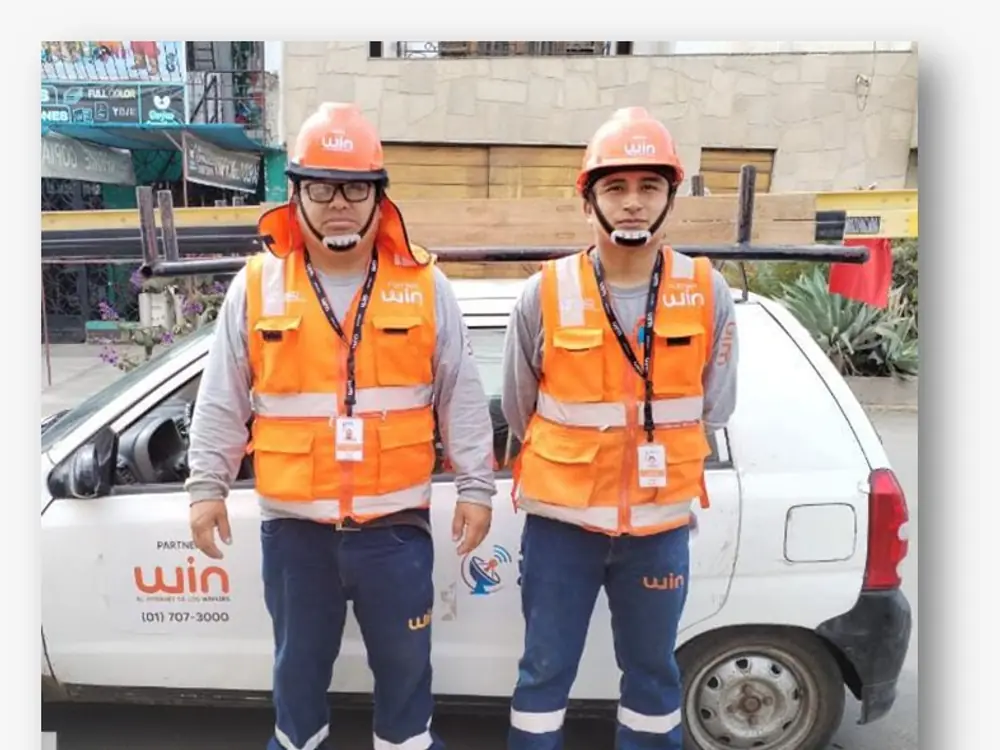
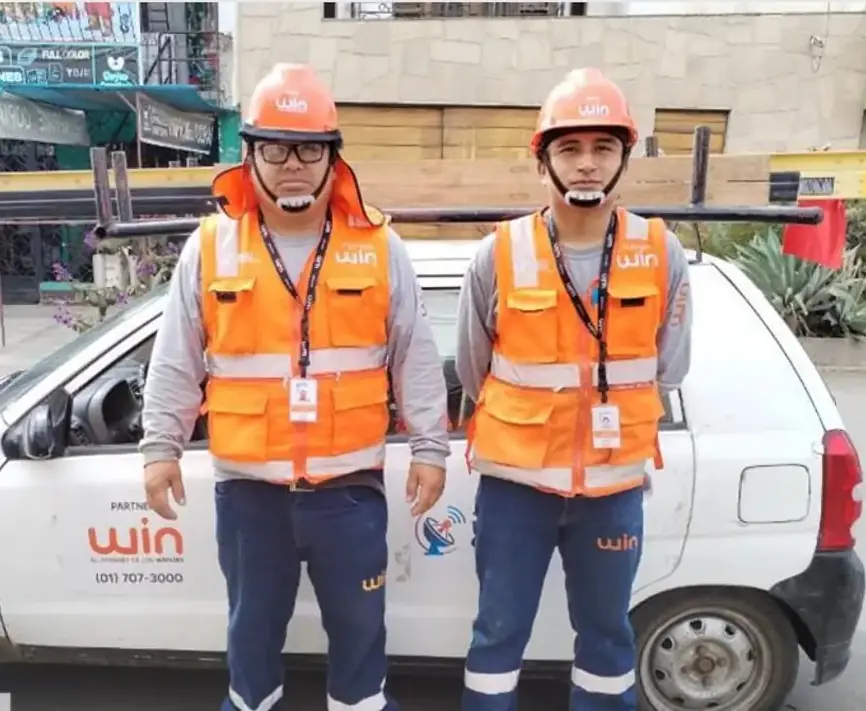
Trujillo y Lima estrenan fotos editadas, sin el marco blanco
Las siete fotos de Trujillo (04 a 10) y lima-01 se reemplazan por las
versiones editadas: recortadas y sin el marco blanco con sombra que traían
incrustado. lima-04 sale de la galería. Los originales editados quedan en
_originales/sedes/*/editadas.

diff --git a/src/galeria.js b/src/galeria.js
@@ -8,18 +8,13 @@ export const GALERIA = {
     },
     {
       "src": "/img/sedes/lima-01.webp",
-      "ancho": 1400,
+      "ancho": 1310,
       "alto": 936
     },
     {
       "src": "/img/sedes/lima-03.webp",
       "ancho": 1281,
       "alto": 1080
-    },
-    {
-      "src": "/img/sedes/lima-04.webp",
-      "ancho": 1400,
-      "alto": 936
     },
     {
       "src": "/img/sedes/lima-05.webp",
@@ -50,38 +45,38 @@ export const GALERIA = {
     },
     {
       "src": "/img/sedes/trujillo-04.webp",
-      "ancho": 1000,
-      "alto": 750
+      "ancho": 897,
+      "alto": 686
     },
     {
       "src": "/img/sedes/trujillo-05.webp",
-      "ancho": 1000,
-      "alto": 750
+      "ancho": 849,
+      "alto": 697
     },
     {
       "src": "/img/sedes/trujillo-06.webp",
-      "ancho": 1000,
-      "alto": 750
+      "ancho": 853,
+      "alto": 703
     },
     {
       "src": "/img/sedes/trujillo-07.webp",
-      "ancho": 1000,
-      "alto": 750
+      "ancho": 834,
+      "alto": 677
     },
     {
       "src": "/img/sedes/trujillo-08.webp",
-      "ancho": 1000,
-      "alto": 750
+      "ancho": 862,
+      "alto": 703
     },
     {
       "src": "/img/sedes/trujillo-09.webp",
-      "ancho": 1000,
-      "alto": 750
+      "ancho": 871,
+      "alto": 701
     },
     {
       "src": "/img/sedes/trujillo-10.webp",
-      "ancho": 1000,
-      "alto": 750
+      "ancho": 866,
+      "alto": 711
     }
   ],
   "piura": [
